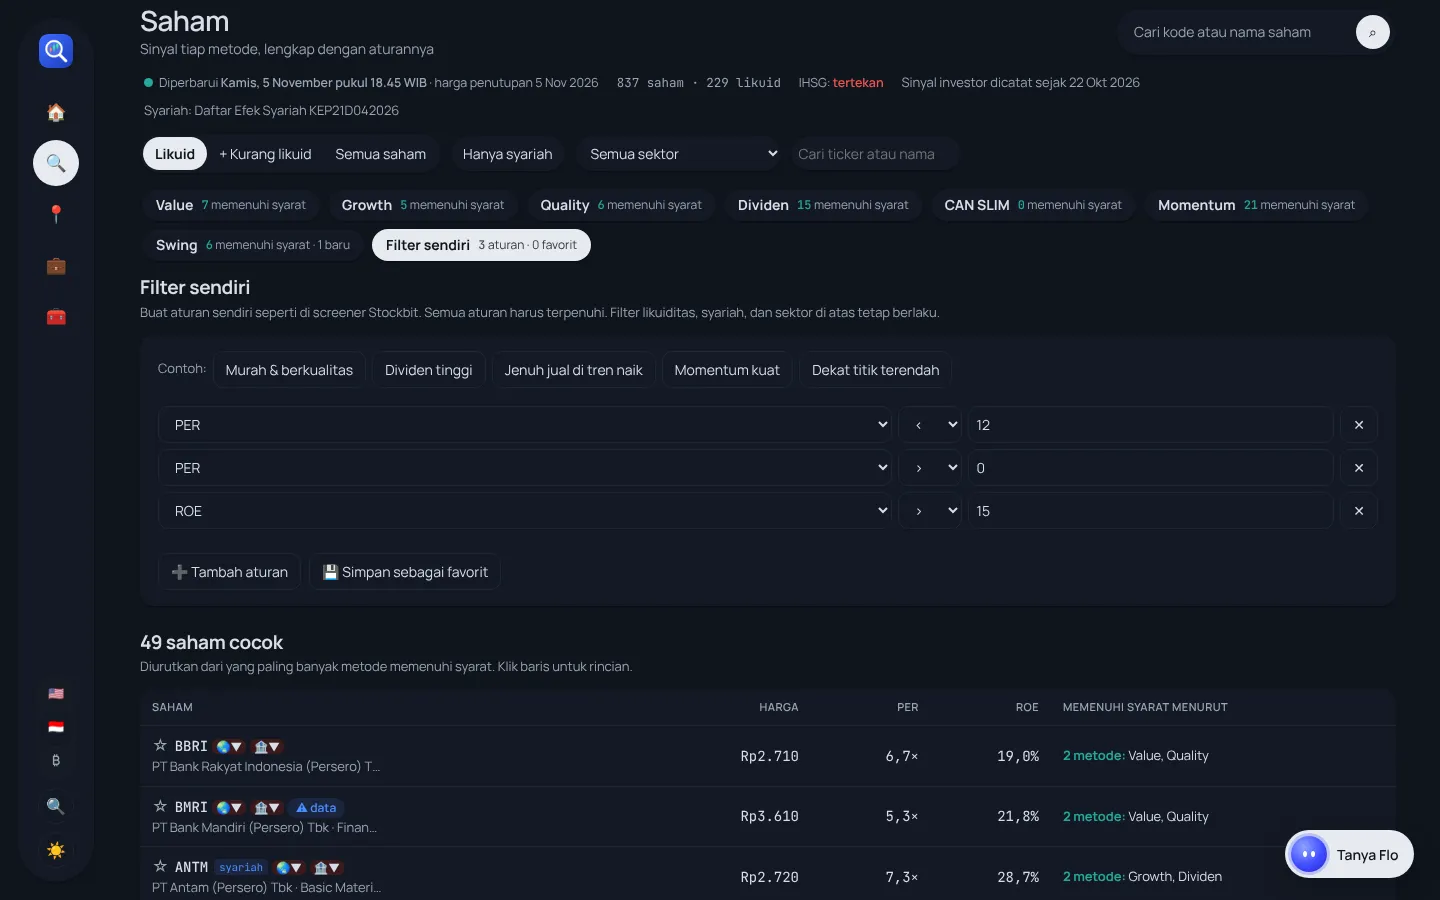
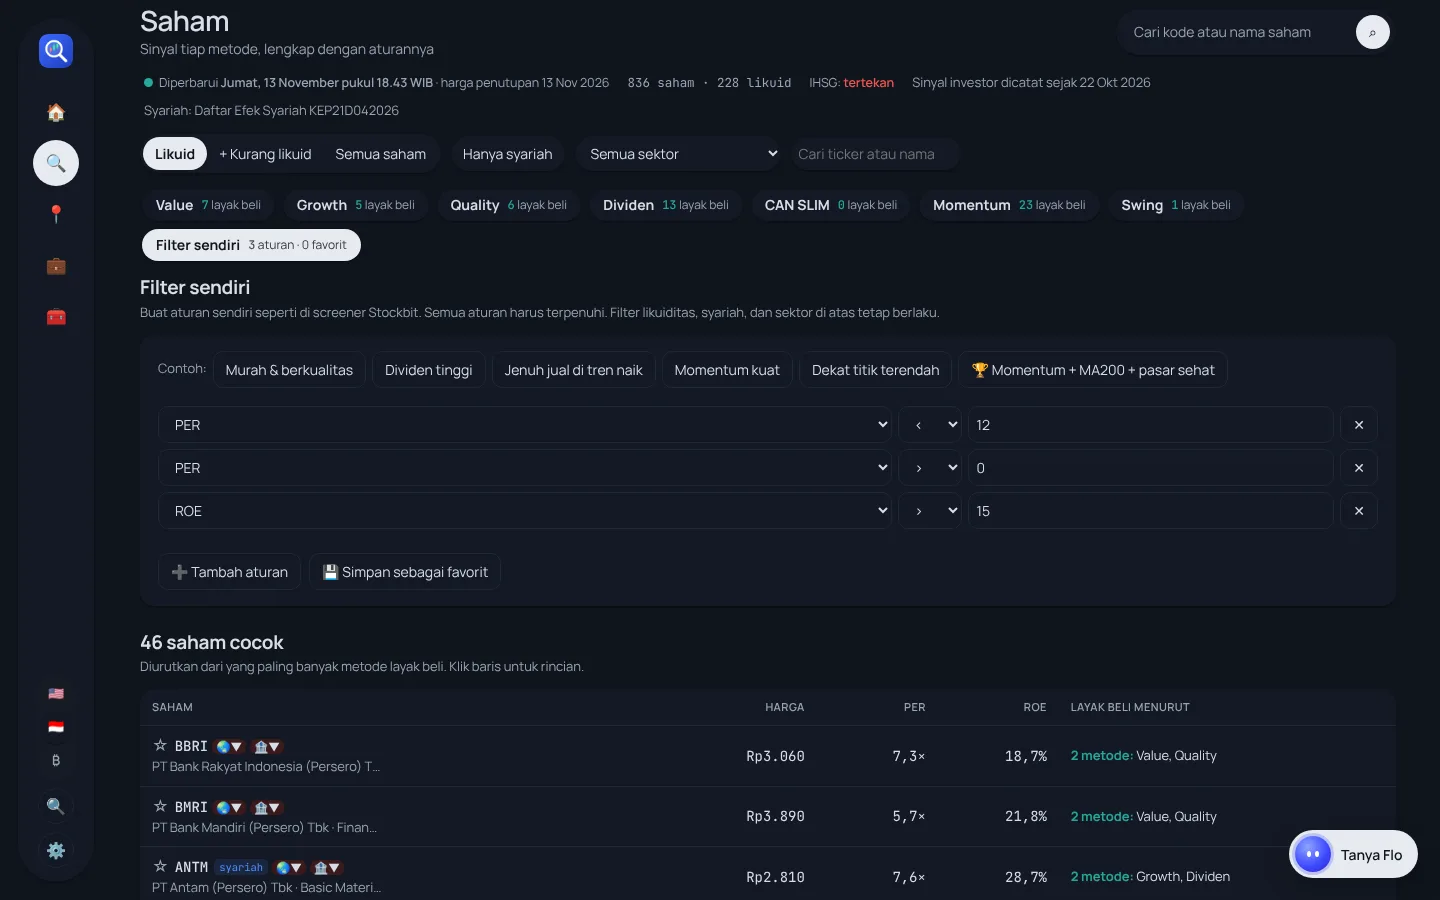
Filter sendiri: contoh Momentum + MA200 + pasar sehat
Contoh siap pakai dari gabungan metode terbaik di uji 10 tahun BEI, aturan
baru Status Momentum dan Pasar sehat (indeks > MA200), kotak hasil uji, dan
keterangan menunggu bila pasar tidak sehat (daftar jadi pantauan).

Claude-Session: https://claude.ai/code/session_0176tunrJSEBXY79hig8NsYk

diff --git a/index.html b/index.html
@@ -2694,13 +2694,18 @@ const FKEY=WP+"flt";
 const FF=[["pe","PER","x"],["pb","PBV","x"],["roe","ROE","%"],["div","Dividend yield","%"],["payout","Payout dividen","%"],["de","Utang/ekuitas (DER)","x"],
   ["epsG","Pertumbuhan laba/th","%"],["salesG","Pertumbuhan penjualan/th","%"],["mcap",IS_ID?"Kapitalisasi (Rp miliar)":"Kapitalisasi ($ juta)",""],["price","Harga",""],
   ["rsi14","RSI (14)",""],["sma50","Jarak dari MA50","%"],["sma200","Jarak dari MA200","%"],["hi52","Jarak dari puncak 52 minggu","%"],
-  ["perf1m","Kinerja 1 bulan","%"],["perf3m","Kinerja 3 bulan","%"],["perf1y","Kinerja 1 tahun","%"],...(IS_ID?[["adv","Transaksi/hari (Rp miliar)",""]]:[]),["nbuy","Layak beli di ≥ N metode",""]];
+  ["perf1m","Kinerja 1 bulan","%"],["perf3m","Kinerja 3 bulan","%"],["perf1y","Kinerja 1 tahun","%"],...(IS_ID?[["adv","Transaksi/hari (Rp miliar)",""]]:[]),["nbuy","Layak beli di ≥ N metode",""],
+  ["mom","Status Momentum (1 = layak beli/tahan)",""],["mkt",`Pasar sehat (1 = ${IS_ID?"IHSG":"S&P 500"} di atas MA200)`,""]];
 const FFM=Object.fromEntries(FF.map(f=>[f[0],f]));
 const FPRE=[["Murah & berkualitas",[["pe","<",12],["pe",">",0],["roe",">",15]]],["Dividen tinggi",[["div",">",5],["payout","<",90]]],
-  ["Jenuh jual di tren naik",[["rsi14","<",35],["sma200",">",0]]],["Momentum kuat",[["perf3m",">",10],["sma50",">",0],["sma200",">",0]]],["Dekat titik terendah",[["hi52","<",-30],["roe",">",10]]]];
+  ["Jenuh jual di tren naik",[["rsi14","<",35],["sma200",">",0]]],["Momentum kuat",[["perf3m",">",10],["sma50",">",0],["sma200",">",0]]],["Dekat titik terendah",[["hi52","<",-30],["roe",">",10]]],
+  ["🏆 Momentum + MA200 + pasar sehat",[["mom",">",0],["sma200",">",0],["mkt",">",0]]]];
+const CB_KEY="Momentum + tren MA200 + pasar sehat";
+const mktOk=()=>{ const m=(DATA&&DATA.market)||{}; return m.above200===true?1:m.above200===false?0:null; };
 let RSI14=null;
 function rsiMap(){ if(RSI14||!SER||!SER.stocks) return RSI14; RSI14={}; for(const [t,v] of Object.entries(SER.stocks)){ const r=rsiOf(v); RSI14[t]=lastOf(r)[0]; } return RSI14; }
-function fval(o,k){ if(k==="rsi14"){ const m=rsiMap(); return m?m[o.ticker]??null:null; } if(k==="nbuy") return M.filter(m=>uv(o,m.id).s==="buy").length; const v=o[k]; return typeof v==="number"&&isFinite(v)?v:null; }
+function fval(o,k){ if(k==="rsi14"){ const m=rsiMap(); return m?m[o.ticker]??null:null; } if(k==="nbuy") return M.filter(m=>uv(o,m.id).s==="buy").length;
+  if(k==="mom"){ const st=uv(o,"momentum").s; return st==="buy"||st==="hold"?1:0; } if(k==="mkt") return mktOk(); const v=o[k]; return typeof v==="number"&&isFinite(v)?v:null; }
 function fstate(){ try{ const j=JSON.parse(store.get(FKEY)||"null"); if(j&&Array.isArray(j.cur)) return j; }catch(e){} return {cur:FPRE[0][1].map(r=>r.slice()),saved:[]}; }
 function fsave(s){ store.set(FKEY,JSON.stringify(s)); }
 function renderScreen(box){
@@ -2708,10 +2713,21 @@ function renderScreen(box){
   const needR=R.some(r=>r[0]==="rsi14");
   if(needR&&!SER){ box.innerHTML=`<div class="tablebox"><div class="empty">Memuat data RSI…</div></div>`; loadSer().then(()=>{ if(tab==="screen") renderResults(); }); return; }
   const base=filtered(), ok=R.filter(r=>FFM[r[0]]&&r[2]!==""&&r[2]!=null&&isFinite(+r[2]));
-  const res=base.filter(o=>ok.every(([k,op,v])=>{ const x=fval(o,k); return x!=null&&(op==="<"?x<+v:x>+v); }))
+  // Aturan "pasar sehat" berlaku untuk semua saham sekaligus: bila pasar tidak sehat, saham yang lolos aturan lain tetap ditampilkan sebagai pantauan.
+  const mR=ok.filter(r=>r[0]==="mkt"), mPass=!mR.length||mR.every(([k,op,v])=>{ const x=mktOk(); return x!=null&&(op==="<"?x<+v:x>+v); });
+  const ok2=ok.filter(r=>r[0]!=="mkt");
+  const res=base.filter(o=>ok2.every(([k,op,v])=>{ const x=fval(o,k); return x!=null&&(op==="<"?x<+v:x>+v); }))
     .map(o=>({o,nb:fval(o,"nbuy")})).sort((a,b)=>b.nb-a.nb||(b.o.mcap||0)-(a.o.mcap||0));
-  const keys=[...new Set(ok.map(r=>r[0]).filter(k=>k!=="nbuy"))];
-  const fmtv=(k,v)=>v==null?"–":k==="price"?usd(v):k==="mcap"||k==="adv"?nf(v,0):(FFM[k][2]==="%"&&v>0&&/^(sma|hi|perf)/.test(k)?"+":"")+nf(v,FFM[k][2]==="x"?1:1)+(FFM[k][2]==="%"?"%":FFM[k][2]==="x"?"×":"");
+  const keys=[...new Set(ok2.map(r=>r[0]).filter(k=>k!=="nbuy"))];
+  const isCB=ok.some(r=>r[0]==="mom")&&ok.some(r=>r[0]==="sma200")&&mR.length, cb=isCB&&LT&&LT.combo&&LT.combo.rows&&LT.combo.rows[CB_KEY], cbM=isCB&&LT&&LT.combo&&LT.combo.rows&&LT.combo.rows["Momentum"];
+  const IXN=IS_ID?"IHSG":"S&amp;P 500", mk=(DATA&&DATA.market)||{};
+  const cbBox=isCB?`<div class="mcard" style="margin-top:12px;gap:6px;border-left:4px solid var(--good)"><b>🏆 Momentum + tren MA200 + pasar sehat</b>
+    <span style="font-size:14px">Pegang saham yang <b>layak beli atau tahan menurut Momentum</b> dan harganya <b>di atas rata-rata 200 harinya</b>, tetapi hanya selama <b>${IXN} di atas rata-rata 200 harinya</b>. Saham yang tidak lagi memenuhi syarat dijual.</span>
+    ${cb?`<span style="font-size:14px">Uji ${LT.combo.from.slice(0,4)}–${LT.combo.to.slice(0,4)}: <b class="ok">${pct(cb.cagr,1)} per tahun</b>, turun terdalam ${nf(cb.dd,0)}%, untung ${cb.yp} dari ${cb.y} tahun${cbM?`; Momentum saja ${pct(cbM.cagr,1)} per tahun dengan turun terdalam ${nf(cbM.dd,0)}%`:""}.${cbM&&cbM.cagr>cb.cagr?" Di pasar ini hasilnya lebih kecil dari Momentum saja; kelebihannya hanya turun terdalam yang lebih dangkal.":""}</span>`:""}
+    <span class="note">Hasil uji masa lalu tidak menjamin hasil berikutnya. Rinciannya di halaman 📏 Hasil uji.</span></div>`:"";
+  const mBox=!mPass?`<div class="mcard" style="margin-top:12px;gap:4px;border-left:4px solid var(--bad)"><b class="no">⏸ Pasar sedang tidak sehat: aturan ini menyuruh menunggu</b>
+    <span style="font-size:14px">${mk.text?esc(mk.text)+". ":""}Selama ${IXN} di bawah rata-rata 200 hari, gabungan ini tidak membeli saham baru${isCB?" dan posisi lama dijual":""}. Daftar di bawah hanya <b>pantauan</b>: saham yang lolos aturan lain, siap dicek saat pasar kembali sehat.</span></div>`:"";
+  const fmtv=(k,v)=>v==null?"–":k==="mom"?(v?"✓":"–"):k==="price"?usd(v):k==="mcap"||k==="adv"?nf(v,0):(FFM[k][2]==="%"&&v>0&&/^(sma|hi|perf)/.test(k)?"+":"")+nf(v,FFM[k][2]==="x"?1:1)+(FFM[k][2]==="%"?"%":FFM[k][2]==="x"?"×":"");
   const rule=(r,i)=>`<div class="frule"><select data-fk="${i}">${FF.map(f=>`<option value="${f[0]}" ${f[0]===r[0]?"selected":""}>${esc(f[1])}</option>`).join("")}</select>
     <select data-fo="${i}"><option value="<" ${r[1]==="<"?"selected":""}>&lt;</option><option value=">" ${r[1]===">"?"selected":""}>&gt;</option></select>
     <input type="text" data-fv="${i}" inputmode="decimal" value="${r[2]??""}" placeholder="nilai"><button type="button" data-fd="${i}" aria-label="Hapus aturan">✕</button></div>`;
@@ -2721,7 +2737,8 @@ function renderScreen(box){
       <p style="display:flex;gap:8px;flex-wrap:wrap;margin:10px 0 0"><button type="button" id="fAdd">➕ Tambah aturan</button><button type="button" id="fSave">💾 Simpan sebagai favorit</button></p>
       ${S.saved.length?`<div style="display:flex;flex-wrap:wrap;gap:6px;margin-top:10px"><span class="note" style="align-self:center">Favorit:</span>${S.saved.map((f,i)=>`<span class="fav"><button type="button" data-fs="${i}">⭐ ${esc(f.name)}</button><button type="button" data-fx="${i}" aria-label="Hapus favorit">✕</button></span>`).join("")}</div>`:""}
       ${needR?`<p class="note" style="margin:8px 0 0">RSI hanya tersedia untuk saham yang punya grafik${IS_ID?" (saham likuid)":""}.</p>`:""}</div>
-    <div class="rhead" style="margin-top:14px"><div class="l"><h2>${res.length} saham cocok</h2><p class="note">Diurutkan dari yang paling banyak metode layak beli. Klik baris untuk rincian.</p></div></div>
+    ${cbBox}${mBox}
+    <div class="rhead" style="margin-top:14px"><div class="l"><h2>${res.length} saham ${mPass?"cocok":"dipantau"}</h2><p class="note">Diurutkan dari yang paling banyak metode layak beli. Klik baris untuk rincian.</p></div></div>
     <div class="tablebox"><table><thead><tr><th>Saham</th><th class="num">Harga</th>${keys.map(k=>`<th class="num">${esc(FFM[k][1])}</th>`).join("")}<th>Layak beli menurut</th></tr></thead><tbody>
     ${res.length?res.slice(0,150).map(({o,nb})=>`<tr class="row" data-t="${esc(o.ticker)}" tabindex="0">${stockCell(o)}<td class="num">${usd(o.price)}</td>${keys.map(k=>`<td class="num">${fmtv(k,fval(o,k))}</td>`).join("")}
       <td style="font-size:13px">${nb?`<b class="ok">${nb} metode:</b> ${esc(M.filter(m=>uv(o,m.id).s==="buy").map(m=>m.name).join(", "))}`:'<span class="na">–</span>'}</td></tr>`).join("")

diff --git a/chartflow/public/index.html b/chartflow/public/index.html
@@ -243,7 +243,7 @@ input.code{font-size:22px;letter-spacing:.18em;text-align:center;text-transform:
   <div class="grid">
     <div class="card"><div class="e">🧭</div><h3>7 metode, bahasa sederhana</h3><p>Setiap saham dinilai 7 metode. Keterangannya ringkas: memenuhi syarat, belum di area beli, atau ada tanda jual, beserta alasannya.</p></div>
     <div class="card"><div class="e">📏</div><h3>Hasil uji terbuka</h3><p>Satu halaman berisi semua hasil uji mundur 9–10 tahun: metode, Area beli, lampu pasar, garis tren, Jalur, pola candle, Fibonacci, dan dividen. Yang tidak terbukti ditulis apa adanya.</p></div>
-    <div class="card"><div class="e">🎛</div><h3>Filter sendiri</h3><p>Susun aturan sendiri seperti screener Stockbit: PER, ROE, yield, RSI, jarak dari MA, dan lainnya. Simpan sebagai favorit.</p></div>
+    <div class="card"><div class="e">🎛</div><h3>Filter sendiri</h3><p>Susun aturan sendiri seperti screener Stockbit: PER, ROE, yield, RSI, jarak dari MA, status Momentum, pasar sehat, dan lainnya. Ada contoh siap pakai Momentum + MA200 + pasar sehat, gabungan dengan hasil uji 10 tahun terbaik di BEI. Simpan sebagai favorit.</p></div>
     <div class="card"><div class="e">🔥</div><h3>Ramai hari ini</h3><p>Saham dengan volume melonjak, yang mendekati resistance, serta naik dan turun terbesar hari ini. Ikut diperbarui selama bursa buka.</p></div>
     <div class="card"><div class="e">🔍</div><h3>Pencarian cepat</h3><p>Ketik kode atau nama perusahaan dari halaman mana pun, rinciannya langsung terbuka.</p></div>
     <div class="card"><div class="e">🫧</div><h3>Flo, asisten ChartFlow</h3><p>Ajukan pertanyaan bebas, misalnya "kenapa BBRI ditunda?" atau "bedanya Value dan Quality?". Flo AI menjawab hanya dari data ChartFlow hari ini, dan tombol pertanyaan cepat dihitung langsung dari aturan. Bukan saran investasi.</p></div>
